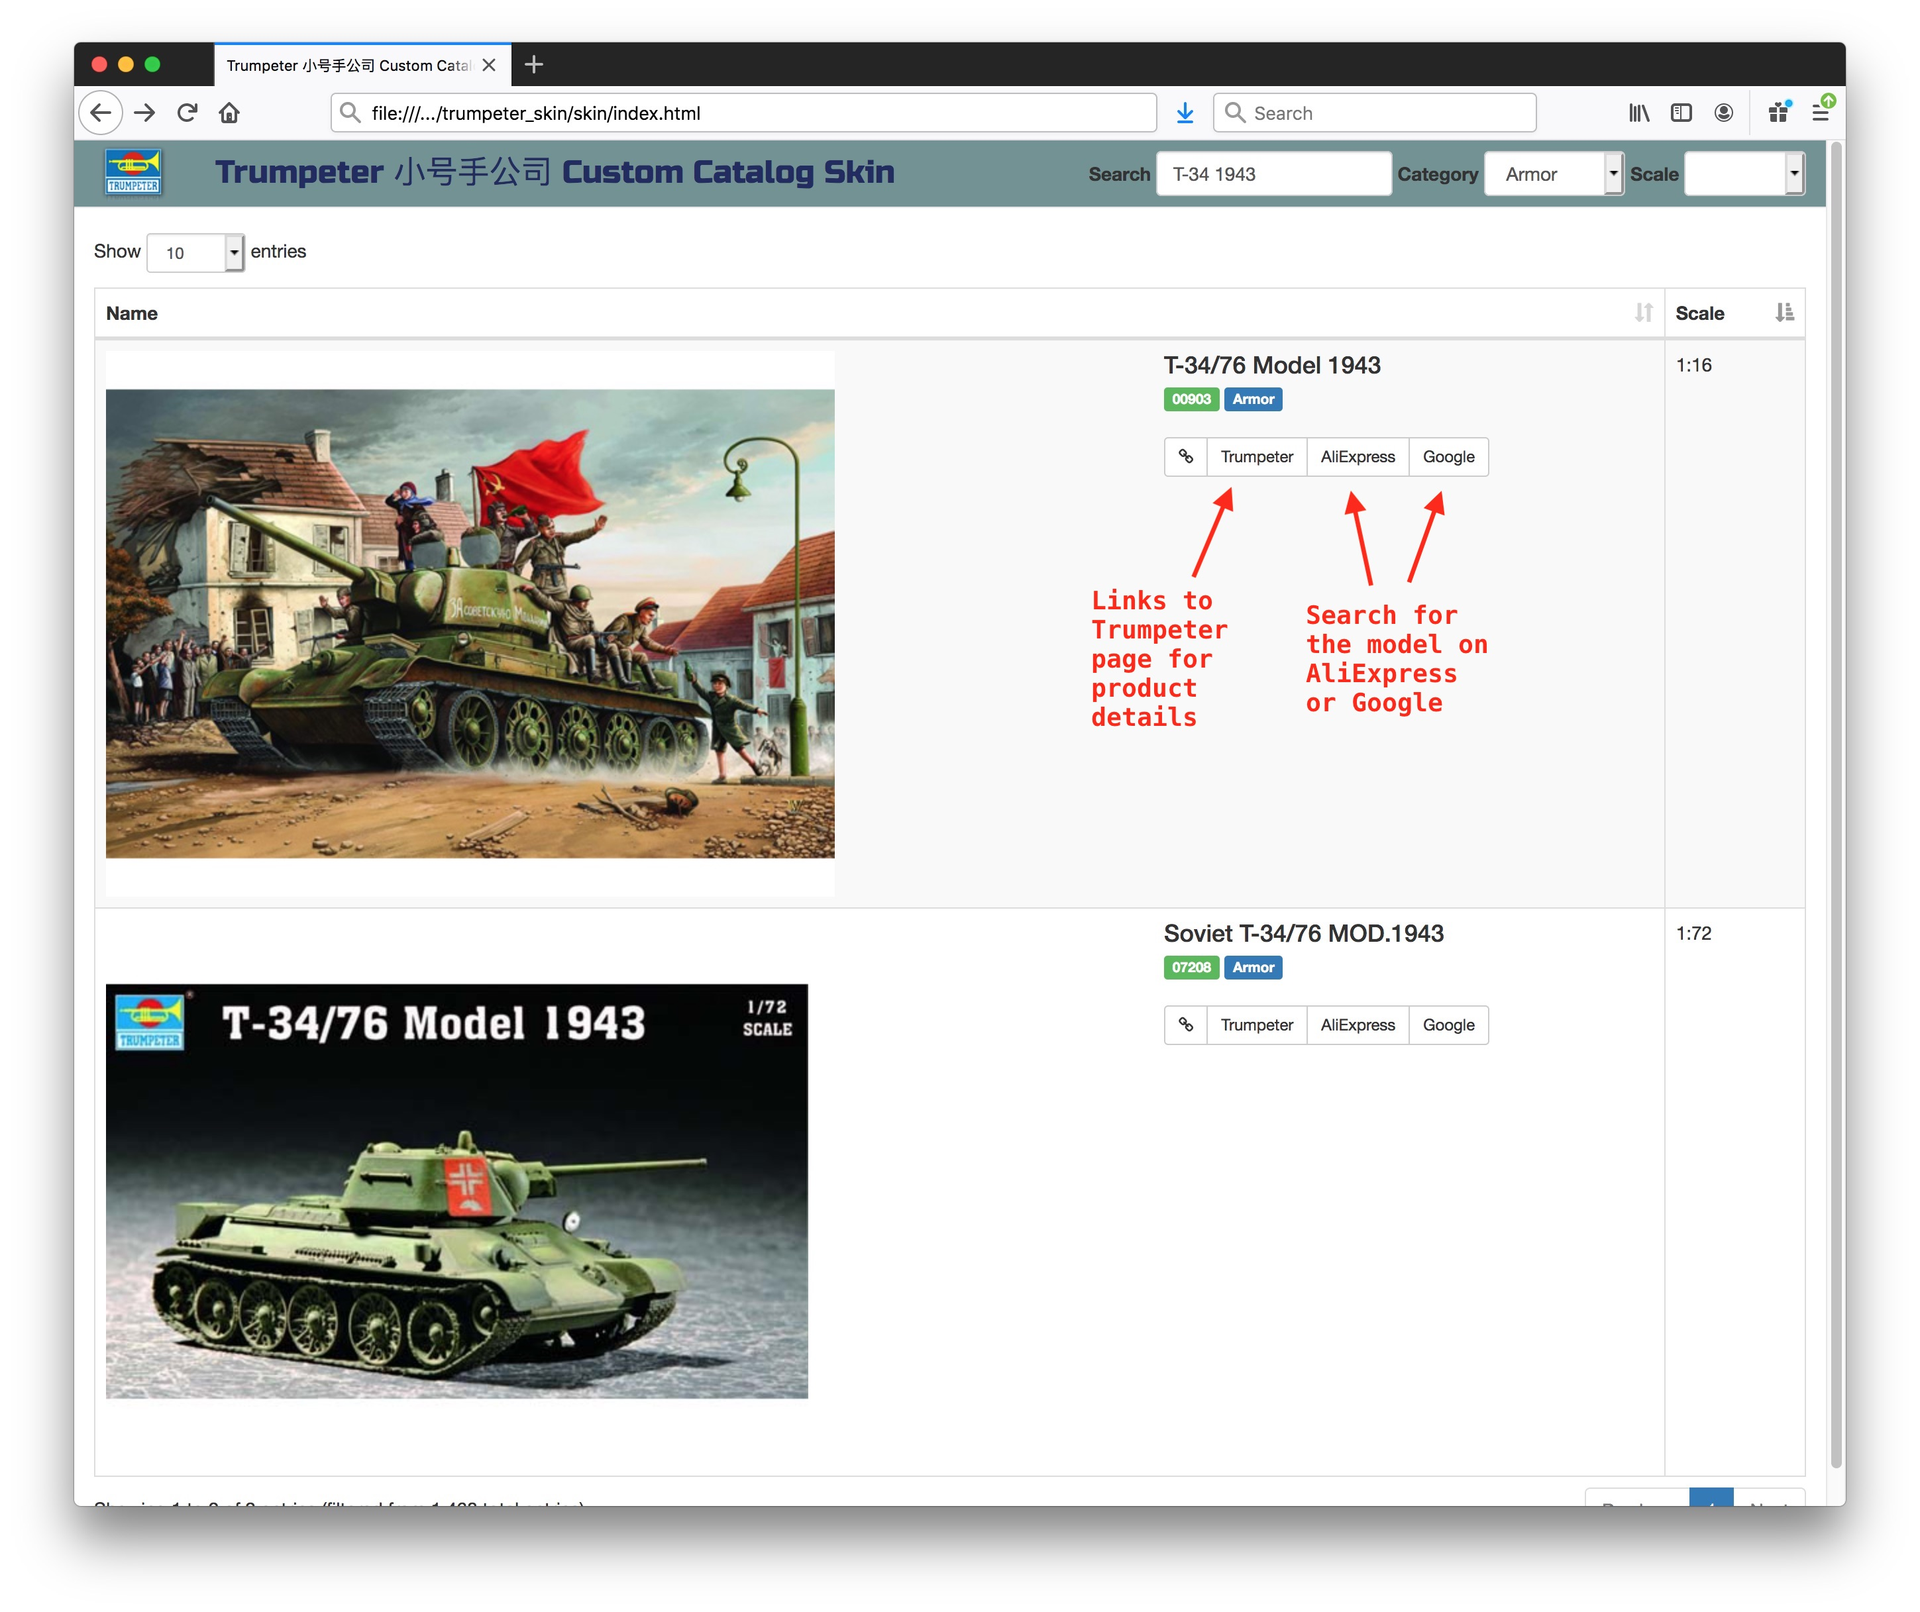
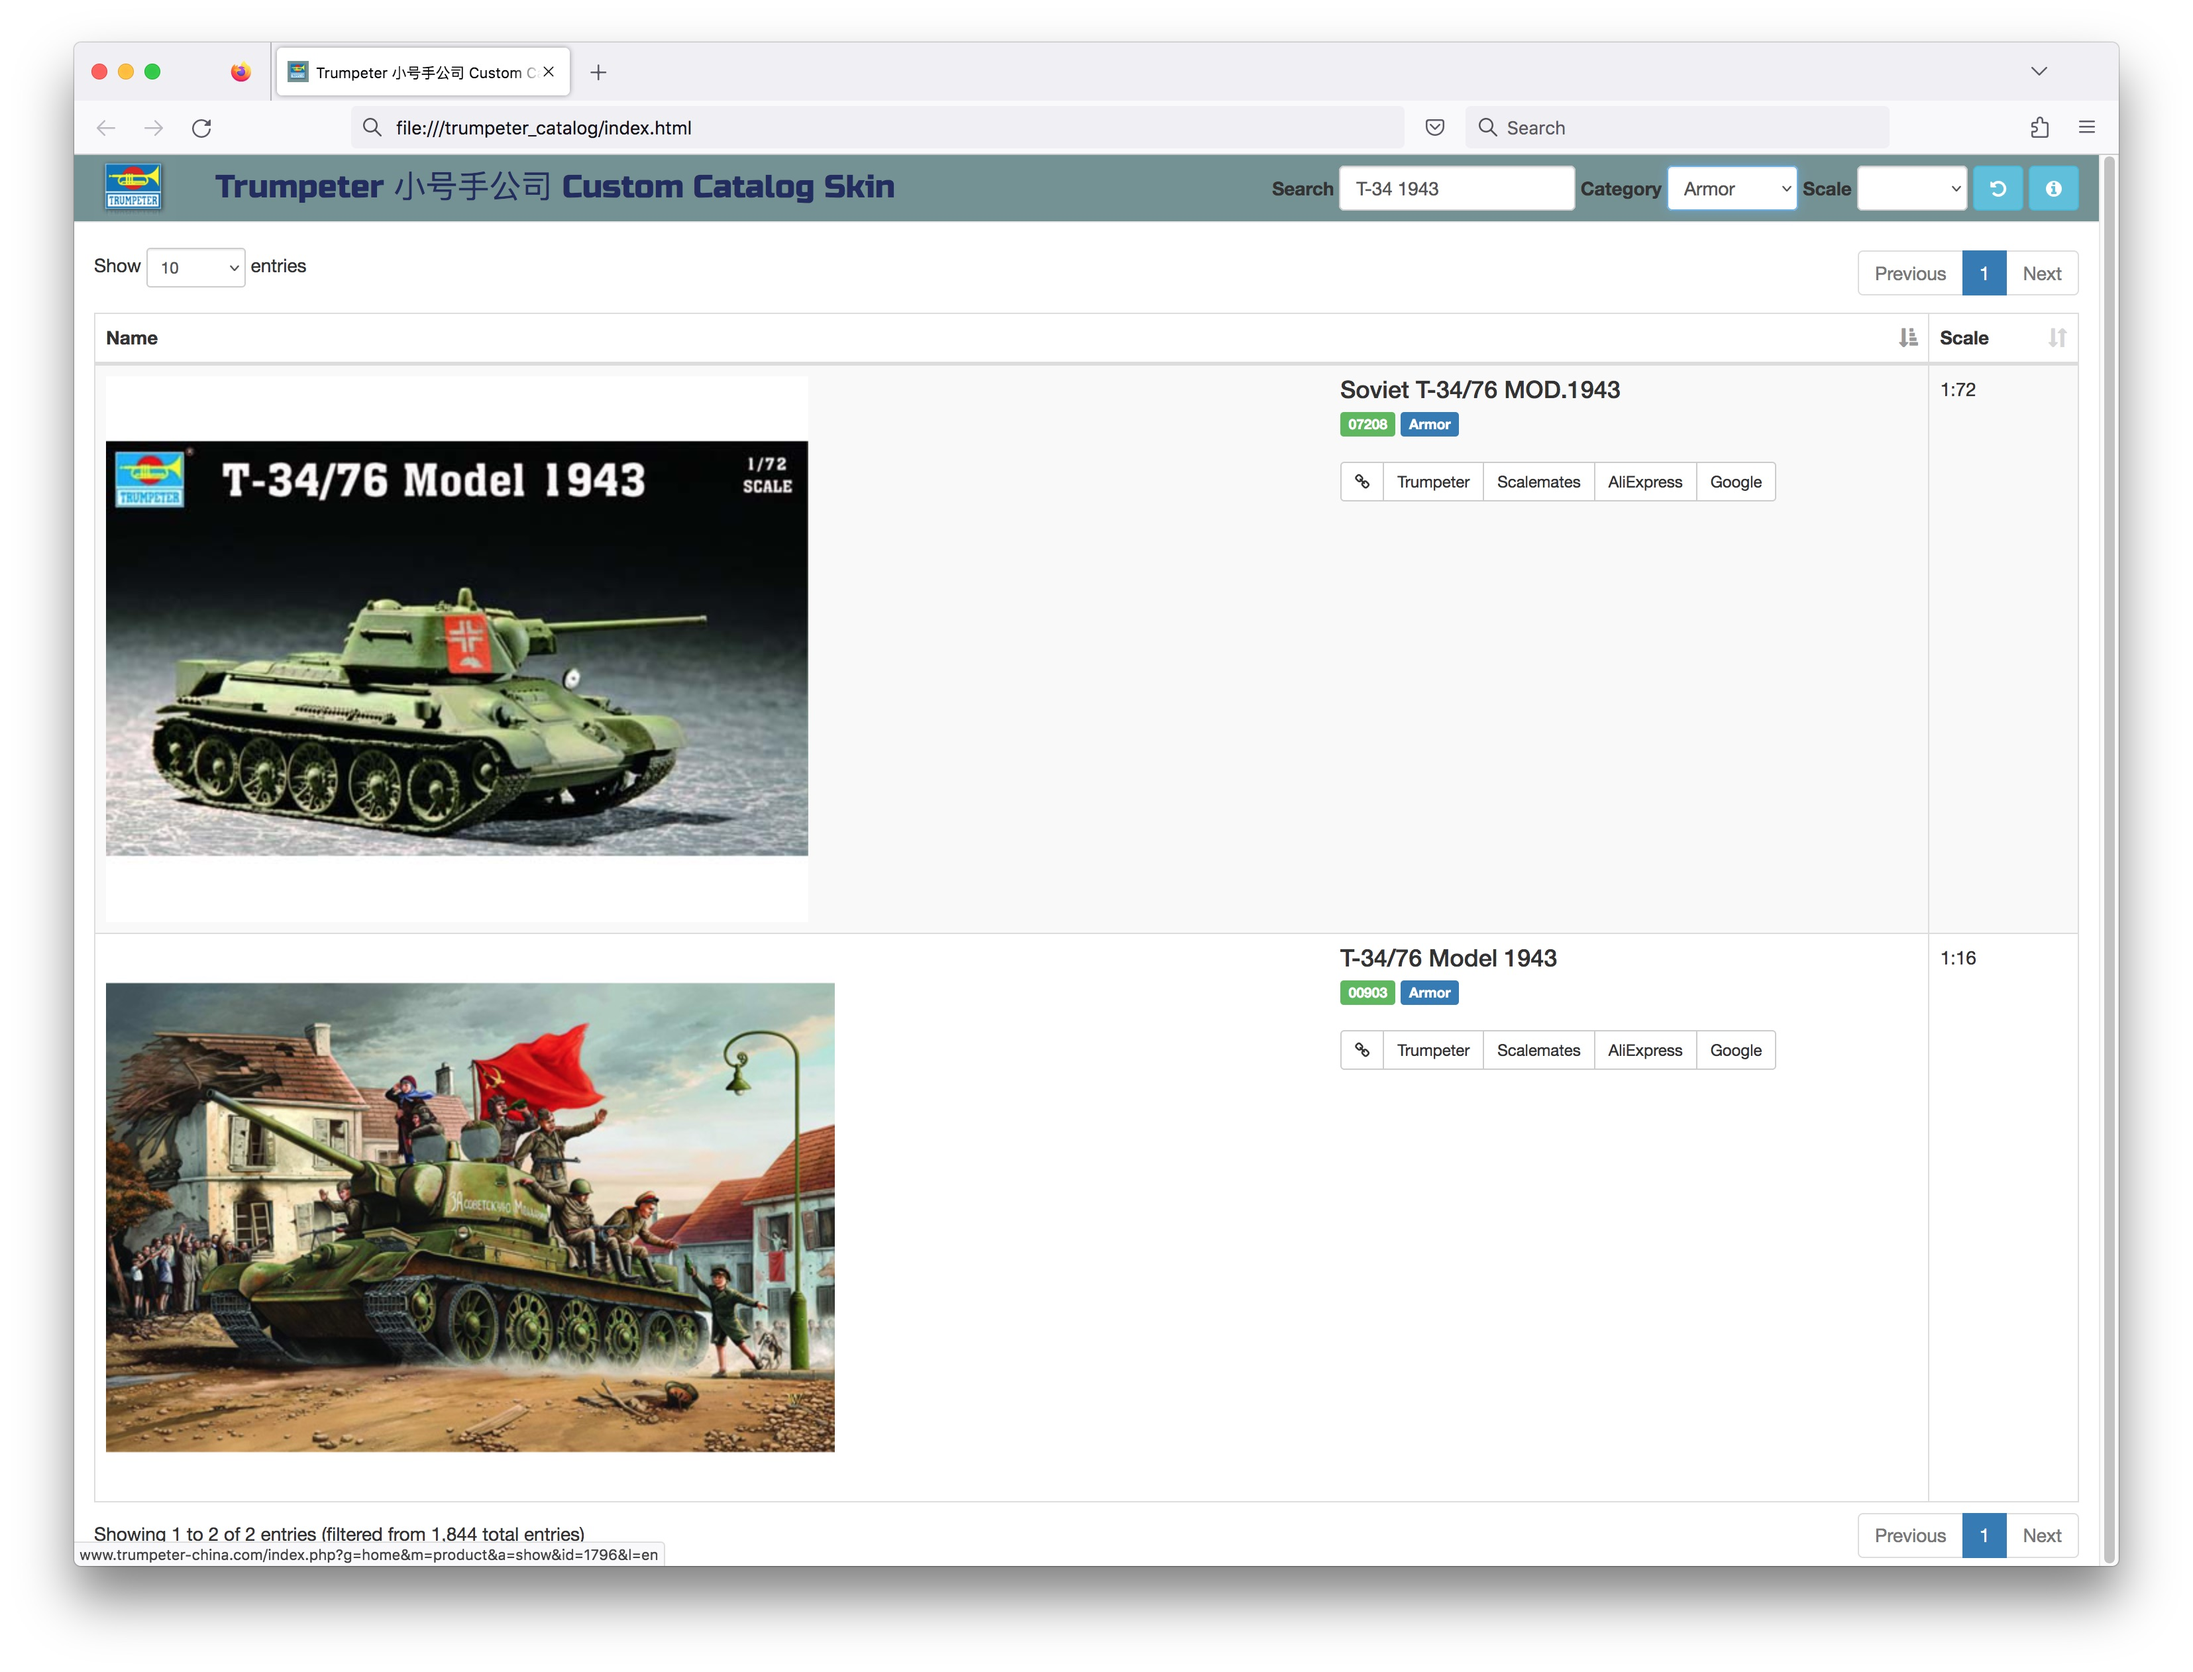
update examples (#2)

diff --git a/README.md b/README.md
@@ -62,11 +62,11 @@ After updating the cache, the `index.html` presents a very snappy searchable and
 of the catalog. It's a simple web page using some basic Bootstrap and Datatables features with a little custom javascript.
 
 Here's an example, with a simple search applied.
-Each entry has links to the main Trumpeter page as well as search links for the product on AliExpress and Google.
+Each entry has links to the main Trumpeter page as well as search links for the product on Scalemates, AliExpress and Google.
 
 ![file_example](./assets/file_example.jpg?raw=true)
 
-Note: the catalog is loaded from JSON file, which presents a security issue if the `skin/index.html` is loaded
+Note: the catalog is loaded from JSON file, which presents a security issue if the `index.html` is loaded
 locally as a file in a browser.
 
 In Firefox, the security issue can be overcome by disabling the `security.fileuri.strict_origin_policy` preference in `about:config`
